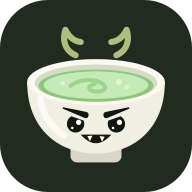
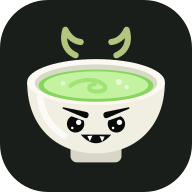
feat: near-black palette so the matcha green stands out
The green-tinted surfaces and text made everything green on green. The
background, cards and borders are now near black with a hint of green, the
text near white, and the green is kept for accents: a brighter matcha on
buttons, the active tab, focus and the gradient (lime → matcha → mint). The
mascot's tea, the app icon tile and the manifest colors follow.

Changed region(s): [[0.1875, 0.3438, 0.8125, 0.5312]]

diff --git a/src/app/globals.css b/src/app/globals.css
@@ -1,30 +1,32 @@
 @import "tailwindcss";
 
-/* Matcha's look: Mochi's family (pastels, rounded shapes, a mascot) brewed
-   green. Dark only: pastel colors on dark matcha tea. */
+/* Matcha's look: Mochi's family (pastels, rounded shapes, a mascot) with
+   matcha green as its brand. Dark only: near black with a hint of green,
+   bright text, and the green kept for what matters. */
 @theme {
   --font-sans: var(--font-figtree), ui-sans-serif, system-ui, sans-serif;
   --font-mono: var(--font-jetbrains-mono), ui-monospace, monospace;
 
-  /* Base surfaces: dark matcha tea */
-  --color-background: #11160f;
-  --color-surface: #222b1f;
-  --color-surface-card: #192017;
-  --color-surface-elevated: #222b1f;
-  --color-surface-hover: #2c3828;
+  /* Base surfaces: near black, a hint of green */
+  --color-background: #090b0a;
+  --color-surface: #191e1b;
+  --color-surface-card: #111513;
+  --color-surface-elevated: #191e1b;
+  --color-surface-hover: #212823;
 
-  --color-border: #303d2c;
-  --color-border-strong: #3e4d39;
+  --color-border: #242b27;
+  --color-border-strong: #323b35;
 
-  --color-text: #f4f8ea;
-  --color-text-secondary: #b5c2aa;
-  --color-text-muted: #7b8a72;
+  /* Text: near white, the rest light enough to read at a glance */
+  --color-text: #f5f8f6;
+  --color-text-secondary: #bac4be;
+  --color-text-muted: #7f8a83;
   --color-text-hover: #ffffff;
 
   /* Mochi's pastels, with Matcha's own greens */
-  --color-matcha: #b5e3a8;
-  --color-lime: #dcef9e;
-  --color-mint: #a3e4cc;
+  --color-matcha: #aef07e;
+  --color-lime: #e5fb9d;
+  --color-mint: #67e8c9;
   --color-sakura: #ffb3c7;
   --color-ube: #c8b4ff;
   --color-yuzu: #ffe08a;
@@ -33,8 +35,8 @@
 
   /* Brand */
   --color-primary: var(--color-matcha);
-  --color-primary-light: #cdeec2;
-  --color-primary-hover: #c6ebbb;
+  --color-primary-light: #c9f7a8;
+  --color-primary-hover: #c2f59b;
   --color-primary-foreground: var(--color-background);
   --color-primary-ring: color-mix(
     in srgb,
@@ -107,7 +109,7 @@
   --brand-gradient: linear-gradient(
     110deg,
     var(--color-lime),
-    var(--color-matcha) 50%,
+    var(--color-matcha) 45%,
     var(--color-mint)
   );
 }
@@ -145,17 +147,12 @@ body {
   -webkit-tap-highlight-color: transparent;
 }
 
-/* A soft green glow at the top of the app */
+/* A faint matcha glow at the top of the app, as in Mochi */
 .app-backdrop {
   background:
     radial-gradient(
       60rem 30rem at 15% -10%,
-      color-mix(in srgb, var(--color-matcha) 12%, transparent),
-      transparent 70%
-    ),
-    radial-gradient(
-      50rem 28rem at 90% -15%,
-      color-mix(in srgb, var(--color-mint) 8%, transparent),
+      color-mix(in srgb, var(--color-matcha) 6%, transparent),
       transparent 70%
     ),
     var(--color-background);

diff --git a/src/components/brand/Matcha.tsx b/src/components/brand/Matcha.tsx
@@ -1,4 +1,4 @@
-const INK = "#11160f";
+const INK = "#090b0a";
 
 /**
  * The matcha mascot: a bowl of whisked matcha, up to no good, its steam
@@ -11,7 +11,7 @@ export default function Matcha({ className }: { className?: string }) {
       {/* Steam, curled into horns */}
       <path
         d="M24 16.5c-3.5-1.5-5.5-5-4-10c1.5 3 3.5 4.5 6 4.8M40 16.5c3.5-1.5 5.5-5 4-10c-1.5 3-3.5 4.5-6 4.8"
-        stroke="#dcef9e"
+        stroke="#e5fb9d"
         strokeOpacity=".7"
         strokeWidth="2.2"
         strokeLinecap="round"
@@ -37,18 +37,18 @@ export default function Matcha({ className }: { className?: string }) {
       <ellipse cx="32" cy="27.4" rx="24" ry="7.3" fill="#d6dac6" />
 
       {/* The matcha inside, frothy with a swirl */}
-      <ellipse cx="32" cy="28.4" rx="22.5" ry="6.3" fill="#8cc77c" />
-      <ellipse cx="32" cy="28.2" rx="20.5" ry="5.4" fill="#c4eab8" />
+      <ellipse cx="32" cy="28.4" rx="22.5" ry="6.3" fill="#86d65c" />
+      <ellipse cx="32" cy="28.2" rx="20.5" ry="5.4" fill="#c3f2a0" />
       <path
         d="M22 28.5c3-2.6 9-3 12-1.2s1.5 3.6-2 3.4s-3.5-2.4-.5-2.9"
-        stroke="#9fd48f"
+        stroke="#9fe474"
         strokeWidth="1.6"
         strokeLinecap="round"
         fill="none"
       />
-      <circle cx="41" cy="27" r="1.2" fill="#e2f4cf" />
-      <circle cx="44" cy="29" r=".9" fill="#e2f4cf" />
-      <circle cx="19" cy="27.5" r=".9" fill="#e2f4cf" />
+      <circle cx="41" cy="27" r="1.2" fill="#e6fad6" />
+      <circle cx="44" cy="29" r=".9" fill="#e6fad6" />
+      <circle cx="19" cy="27.5" r=".9" fill="#e6fad6" />
 
       {/* The face: tapered brows over a glare, glints, a two-fang grin */}
       <g transform="translate(32 43)">

diff --git a/src/app/manifest.ts b/src/app/manifest.ts
@@ -7,8 +7,8 @@ export default function manifest(): MetadataRoute.Manifest {
     description: "Media files manager for Mochi",
     start_url: "/",
     display: "standalone",
-    background_color: "#11160f",
-    theme_color: "#11160f",
+    background_color: "#090b0a",
+    theme_color: "#090b0a",
     orientation: "portrait-primary",
     icons: [
       {

diff --git a/src/app/layout.tsx b/src/app/layout.tsx
@@ -14,7 +14,7 @@ export const metadata: Metadata = {
 };
 
 export const viewport: Viewport = {
-  themeColor: "#11160f",
+  themeColor: "#090b0a",
   colorScheme: "dark",
 };
 
